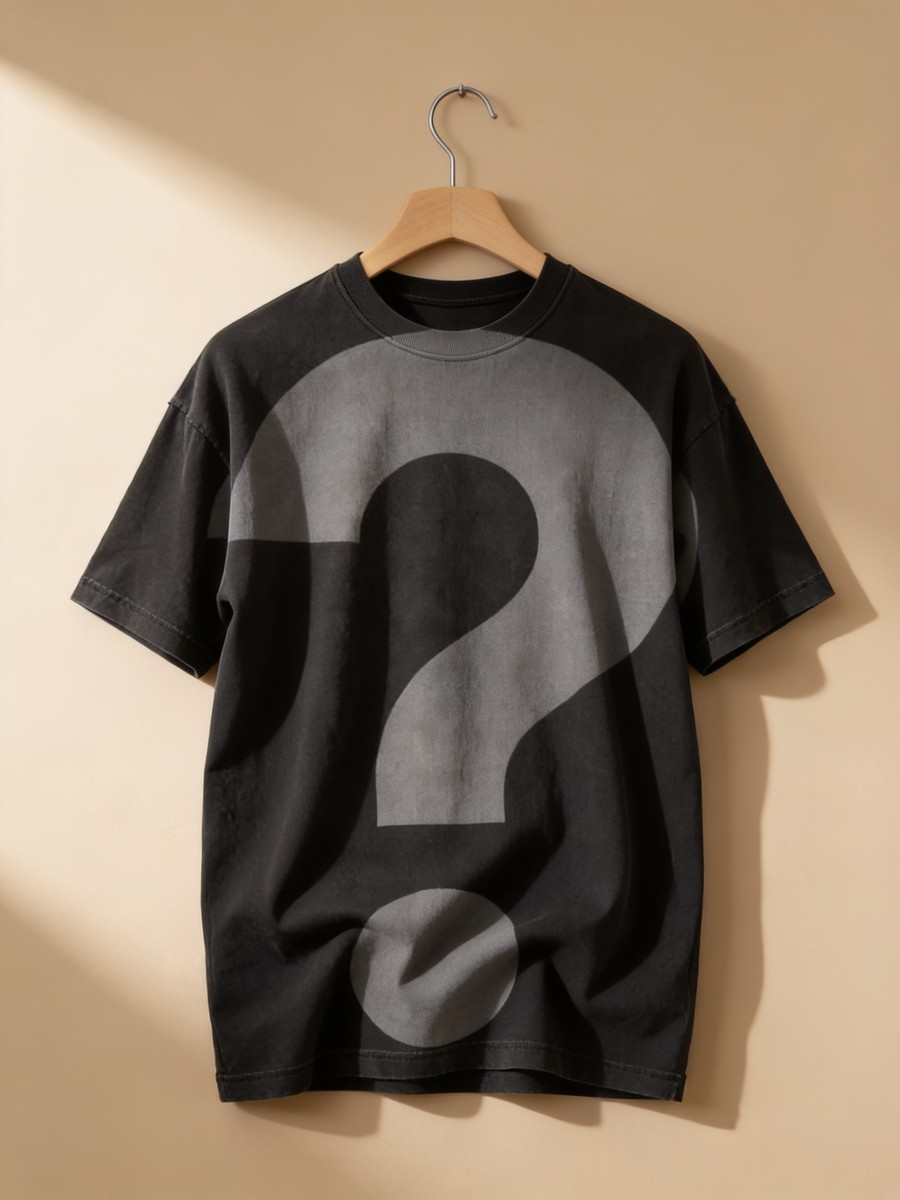
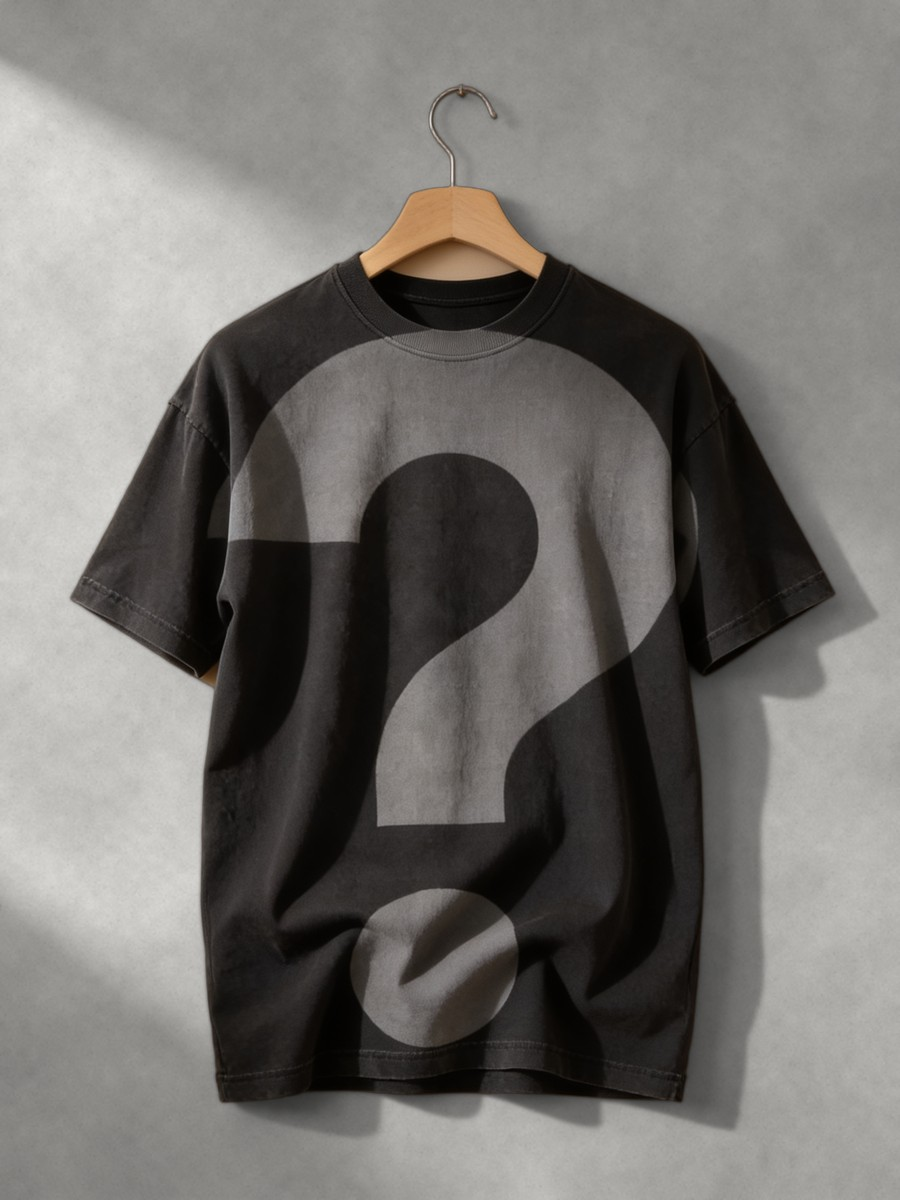
AI-фото: фіолетовий фон, бетонна стіна, преміум без постаменту (#7)
* Демо: оформлення вітрини як живий редактор «Вигляд»

Крок 1 тепер повторює новий редактор продукту: на самій вітрині режим
«Редагування» з пунктирними рамками, плаваючим доком (Шаблон, Шрифт,
Кольори, Фон) і рамкою виділення, що плавно переїжджає між елементами.
Тап по шапці, банеру, рядку чи картці відкриває його налаштування в
бічній панелі, на телефонах шторкою всередині телефона. «Зберегти»
перемикає в «Перегляд», де вітрина працює для покупця. Додано «Фон
каталогу» і «Кнопки в шапці».

Claude-Session: https://claude.ai/code/session_01Tv2wQFunqHGPzt5Th5dmNR

* Демо: новий заголовок і підказка «натисніть на телефоні, оберіть тут»

Заголовок і кроки пояснюють, навіщо демо власнику: налаштувати вітрину,
побачити, як замовляє клієнт, і отримати замовлення в бот. У панелі
кроку 1 два рухи завжди на виду (1 натисніть на телефоні, 2 оберіть
тут), поточний підсвічується. До першого натискання панель показує
анімовану міні-вітрину зі стрілкою на телефон, коуч спершу веде на
телефон, потім у панель.

Claude-Session: https://claude.ai/code/session_01Tv2wQFunqHGPzt5Th5dmNR

* Демо: підказка біля кнопки на кожному кроці й «Зберегти і замовити»

Коуч тепер підписує саму кнопку, яку треба натиснути: маленький ярлик зі
стрілкою під або над нею, від вибору елемента до ТТН. У гайді панелі
третій крок «Збережіть і замовте як ваш клієнт», кнопка панелі
називається «Зберегти і замовити».

Claude-Session: https://claude.ai/code/session_01Tv2wQFunqHGPzt5Th5dmNR
[…]

diff --git a/src/scripts/main.ts b/src/scripts/main.ts
@@ -621,7 +621,7 @@ function aiPhoto() {
   const imgs = Array.from(after.querySelectorAll<HTMLImageElement>('[data-ai-img]'));
   const bgs = $('[data-ai-bgs]', tile)!;
   let op = 'replace_background';
-  let bg = 'beige';
+  let bg = 'violet';
   const show = () => {
     const key = op === 'replace_background' ? `${op}:${bg}` : op;
     for (const img of imgs) {
